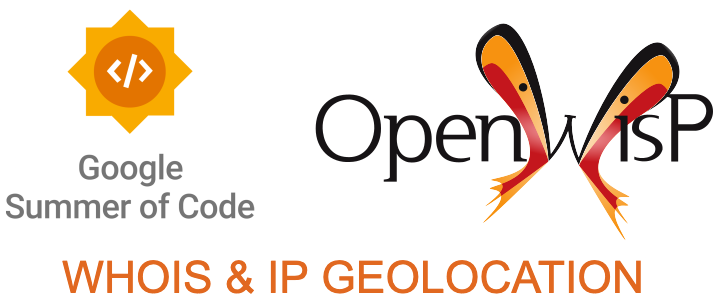
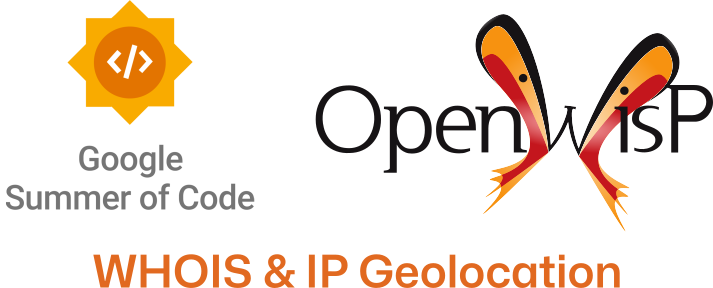
[gsoc25] WHOIS: updated header image and embed youtube video

diff --git a/content/blog/gsoc-25-whois-and-ip-geolocation.rst b/content/blog/gsoc-25-whois-and-ip-geolocation.rst
@@ -26,9 +26,17 @@ significantly enhanced both my technical and collaborative skills.
 About the Project
 -----------------
 
-.. image:: https://img.youtube.com/vi/tQTUJ5MKfTk/maxresdefault.jpg
-    :alt: WHOIS Information and IP Geolocation Demonstration Video
-    :target: https://youtu.be/tQTUJ5MKfTk
+.. raw:: html
+
+    <iframe width="560" height="315"
+            style="width:100%; height:700px;"
+            src="https://www.youtube.com/embed/CglJpTJrsfQ?si=ASs6NRIeJYXuv8Hk&vq=hd1080&autoplay=1&mute=1"
+            title="YouTube video player"
+            frameborder="0"
+            allow="accelerometer; autoplay; clipboard-write; encrypted-media; gyroscope; picture-in-picture; web-share"
+            referrerpolicy="strict-origin-when-cross-origin"
+            allowfullscreen>
+    </iframe>
 
 The WHOIS Information and IP Address-Based Geolocation Module enhances
 OpenWISP by enriching device metadata with ownership details and
